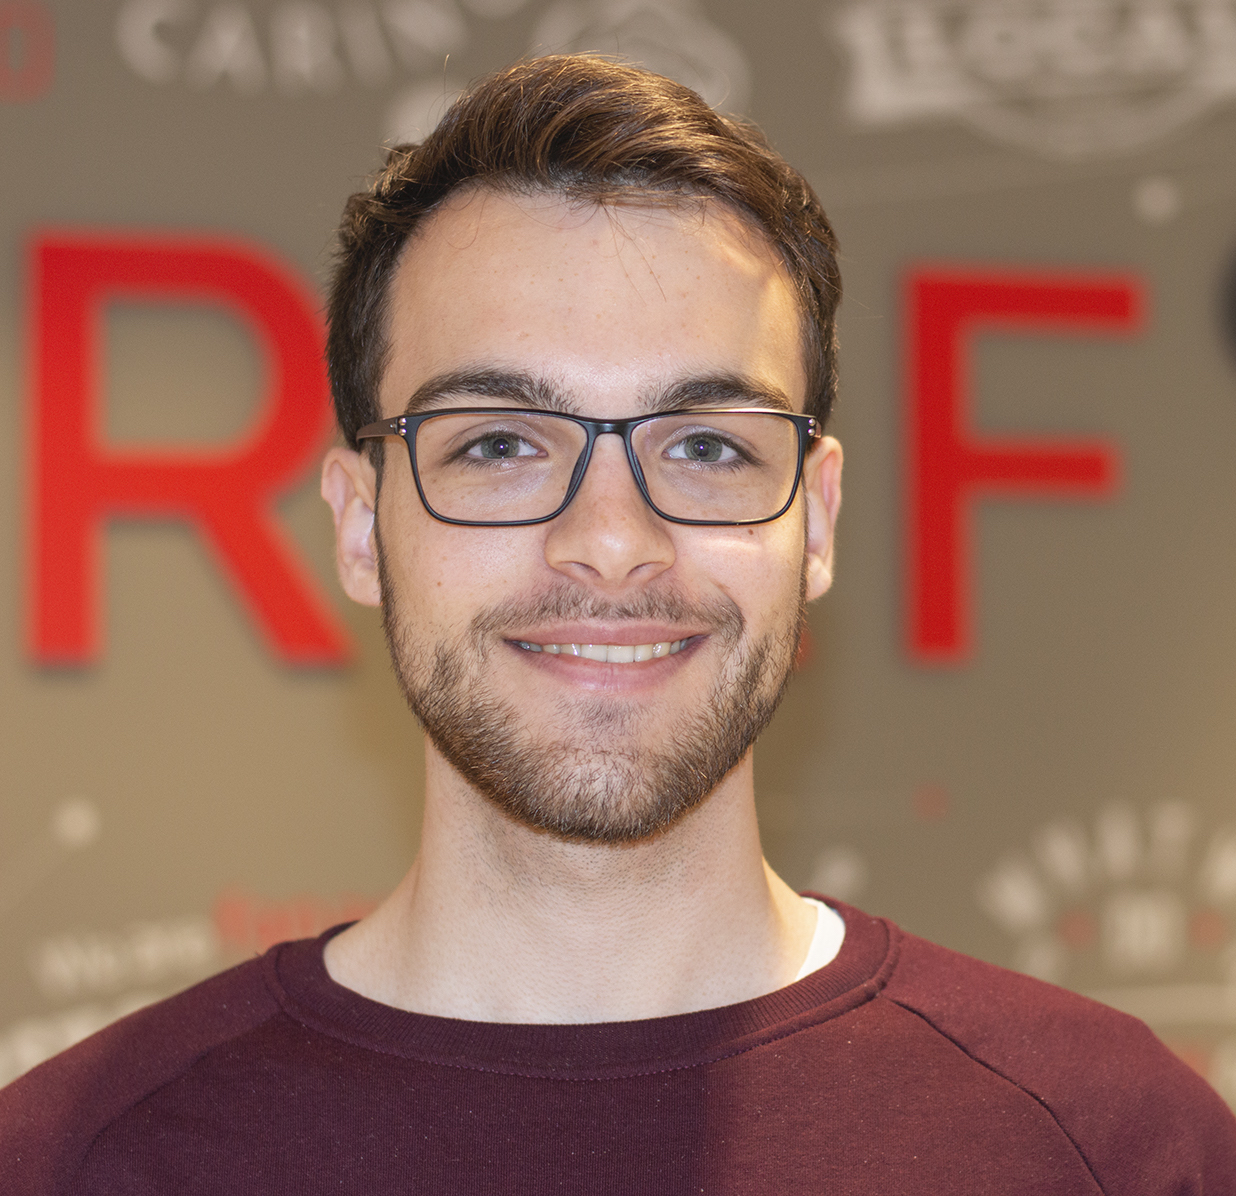
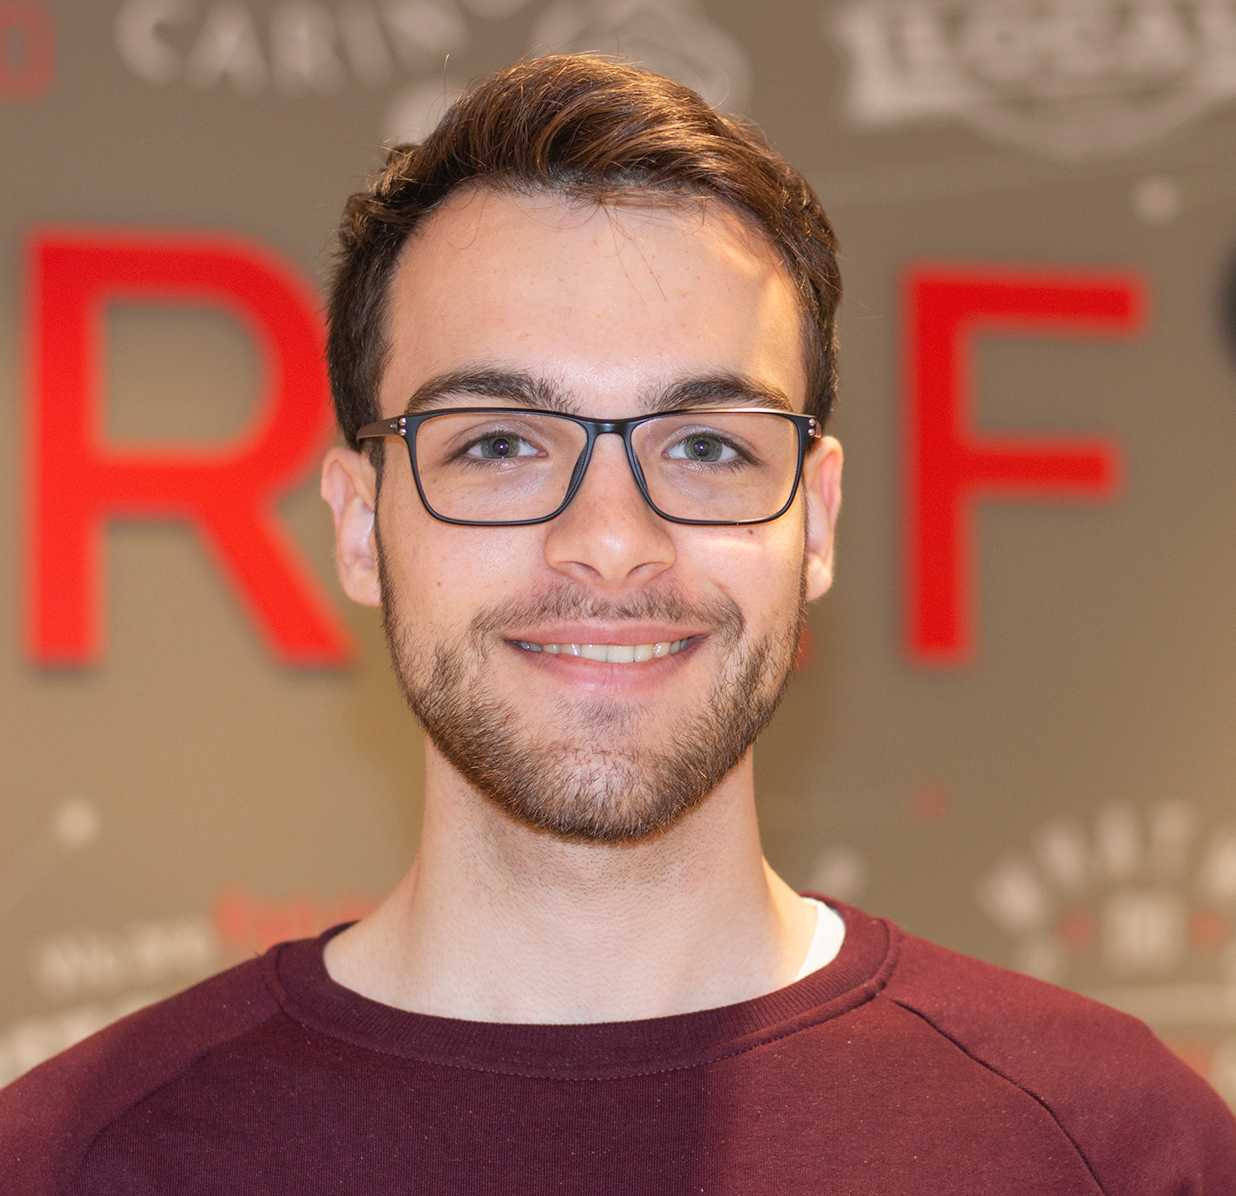
added some more projects, reduced image sizes

diff --git a/src/components/cards/blog-card.js b/src/components/cards/blog-card.js
@@ -7,16 +7,17 @@ import CardActions from "@material-ui/core/CardActions";
 import Grid from "@material-ui/core/Grid";
 import {animated, useSpring} from "react-spring";
 import BookIcon from '@material-ui/icons/Book';
-import PlayCircleFilledIcon from '@material-ui/icons/PlayCircleFilled';
 import IconButton from "@material-ui/core/IconButton";
 import cardStyles from "./card-style";
 import AddCircleIcon from "@material-ui/icons/AddCircle";
 import ButtonBase from "@material-ui/core/ButtonBase";
-import WorkIcon from "@material-ui/icons/Work";
+import {useSnackbar} from "notistack";
 
 const BlogCard = ({post}) => {
     const classes = cardStyles();
     const AnimatedCard = animated(Card)
+    const { enqueueSnackbar } = useSnackbar();
+
     const [active, setActive] = React.useState(false);
     const spring = useSpring({
         transform: active ? 'translateY(-10px)' : 'translateY(0px)',
@@ -27,6 +28,11 @@ const BlogCard = ({post}) => {
             clamp: true
         },
     });
+
+    const cardDetails = () => {
+        return enqueueSnackbar('View under construction')
+    };
+
     return (
         <Grid key={ post.node.id } item>
             <AnimatedCard

diff --git a/src/components/cards/project-card.js b/src/components/cards/project-card.js
@@ -33,7 +33,7 @@ const ProjectCard = ({post}) => {
                 <CardMedia
                     component="img"
                     alt="Project"
-                    height="350"
+                    height="250"
                     src={post.node.frontmatter.image}
                     draggable="false"
                     title="Work"
@@ -49,7 +49,6 @@ const ProjectCard = ({post}) => {
                             <WorkIcon color="secondary"
                                       style={{
                                           margin: `0.5vw 0`,
-                                          // color: 'FF5F19',
                                       }}/>
                         </Grid>
                         <Grid item>

diff --git a/data/work/gd.md b/data/work/gd.md
@@ -6,7 +6,7 @@ title: "Software Engineering Intern"
 date: "2018-12-01"
 dates: "Sep 2018-Dec 2018"
 location: "Ottawa, On"
-image: "../../gd_screen.png"
+image: "../../gd_screen.jpg"
 ---
 
 Developed an internal embedded networking software for next-gen military vehicle smart display technology

diff --git a/data/projects/portfolio.md b/data/projects/portfolio.md
@@ -1,0 +1,10 @@
+---
+type: "project"
+typeHeader: "Python Data Wrangler"
+title: "Twitter Remote Poster"
+date: "2017-06-05"
+image: "../../portfolio.png"
+
+---
+
+Designed and developed past and current portfolio website highlighting various parts of my journey and career thus far.

diff --git a/data/projects/scraper.md b/data/projects/scraper.md
@@ -1,0 +1,10 @@
+---
+type: "project"
+typeHeader: "Python Data Wrangler"
+title: "Twitter Remote Poster"
+date: "2017-06-05"
+image: "../../wrangler.png"
+
+---
+
+Created a python program for learning purposes to take to find the value of a meeting with each department head

diff --git a/data/projects/futurama.md b/data/projects/futurama.md
@@ -1,0 +1,10 @@
+---
+type: "project"
+typeHeader: "Personal Project"
+title: "Custom Oak Wall Sign"
+date: "2016-06-05"
+image: "../../futurama_thumb.jpg"
+
+---
+
+Designed and manufactured a custom neon glowing Futurama wall sign with a C02 Laser engraver

diff --git a/data/projects/project-two.md b/data/projects/project-two.md
@@ -3,7 +3,7 @@ type: "project"
 typeHeader: "Personal Project"
 title: "Magnetic Reading Lamp"
 date: "2017-06-05"
-image: "../../lamp.jpg"
+image: "../../lamp_two.jpg"
 
 ---
 

diff --git a/data/blog/post-one.md b/data/blog/post-one.md
@@ -4,7 +4,7 @@ typeHeader: "Blog Post"
 title: "Test Blog Post"
 date: "2020-12-13"
 author: "Joshua Kearney"
-image: "../../blog-one.png"
+image: "../../blog-one.jpg"
 
 ---
 
